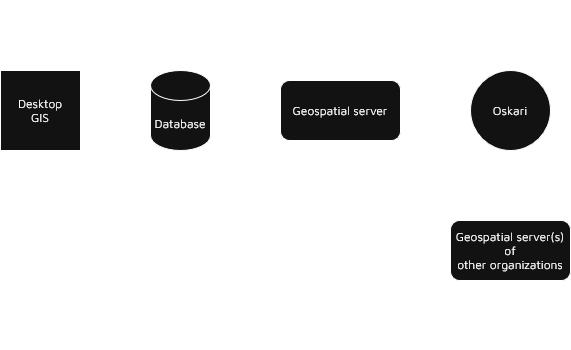
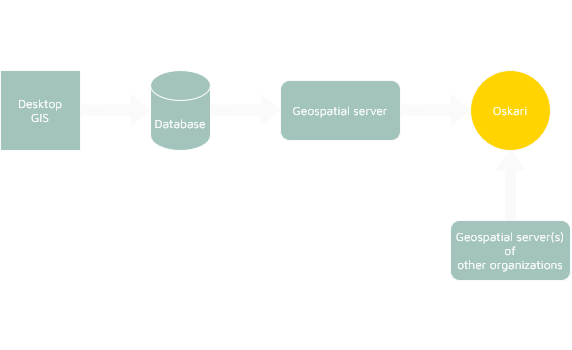
Update images and date

diff --git a/_content/blog/2026-08-10-Examples_of_an_Oskari_stack.md b/_content/blog/2026-08-10-Examples_of_an_Oskari_stack.md
@@ -1,8 +1,8 @@
 ---
 title: Examples of an Oskari stack
 excerpt: "We’ll look into examples of an Oskari stack and give a couple of examples."
-date: 2026-06-12 12:00:00 +0200
-image: resources\2026\communityday2026_workshop.jpg
+date: 2026-08-10 9:00:00 +0200
+image: resources\2026\Oskari_example_stack1.png
 tags:
   - developing, news
 ---
@@ -23,7 +23,7 @@ To get the map layers published in Oskari, a geospatial server such as GeoServer
 
 Now that you have a desktop GIS, database and server (and/or fetch data from other APIs as well) with your Oskari - et voilá, that’s one version of the Oskari stack. Next we’ll do the nitpicking and dive deeper into the Oskari setup.
 
-![An example stack of Oskari infrastructure where data flows from desktop GIS software to database via a geospatial server to Oskari application.](/resources/2026/Oskari_example_stack1.png)
+![An example stack of Oskari infrastructure where data flows from desktop GIS software to database via a geospatial server to Oskari application.](\resources\2026\Oskari_example_stack1.png)
 
 ## Environments and separation
 
@@ -51,7 +51,7 @@ Conversely, Oskari can incorporate external open-data layers directly from other
 
 An organization may therefore maintain several databases and GeoServers that serve different audiences or technical needs, with Oskari acting as one of several consumers that compile and present relevant layers according to audience and purpose.
 
-![Another example stack of Oskari infrastructure which includes multiple software for data creation and editing, two databases (dev + cloud storage), two geospatial servers (dev and prod) and two Oskari instances (dev and prod).](/resources/2026/Oskari_example_stack2.png)
+![Another example stack of Oskari infrastructure which includes multiple software for data creation and editing, two databases (dev + cloud storage), two geospatial servers (dev and prod) and two Oskari instances (dev and prod).](\resources\2026\Oskari_example_stack2.png)
 
 ## Hosting and Scalability
 
@@ -63,4 +63,4 @@ Best practice typically involves maintaining separate infrastructure for develop
 
 In sum, an Oskari stack is not a single monolithic design but a varied architecture. It can include all or some of the workflow of the organization’s GIS processes: the data creation tools, spatial databases, publishing services, and one or more Oskari instances for viewing and editing. 
 
-The variations of the setup arise from organizational needs. Some might need separate environments for dev/test/prod, some may have plenty of automation and ETL processes such as FME and role-based permissions. Others may have one person to administer the whole process from the data creation to publishing and the maintaining of GeoServer and database. To conclude: the Oskari stack your organization needs depends on your use case. To see some existing use cases, check our Use cases page.
+The variations of the setup arise from organizational needs. Some might need separate environments for dev/test/prod, some may have plenty of automation and ETL processes such as FME and role-based permissions. Others may have one person to administer the whole process from the data creation to publishing and the maintaining of GeoServer and database. To conclude: the Oskari stack your organization needs depends on your use case. To see some existing use cases, check our [Use cases page](https://oskari.org/discover/use-cases).
